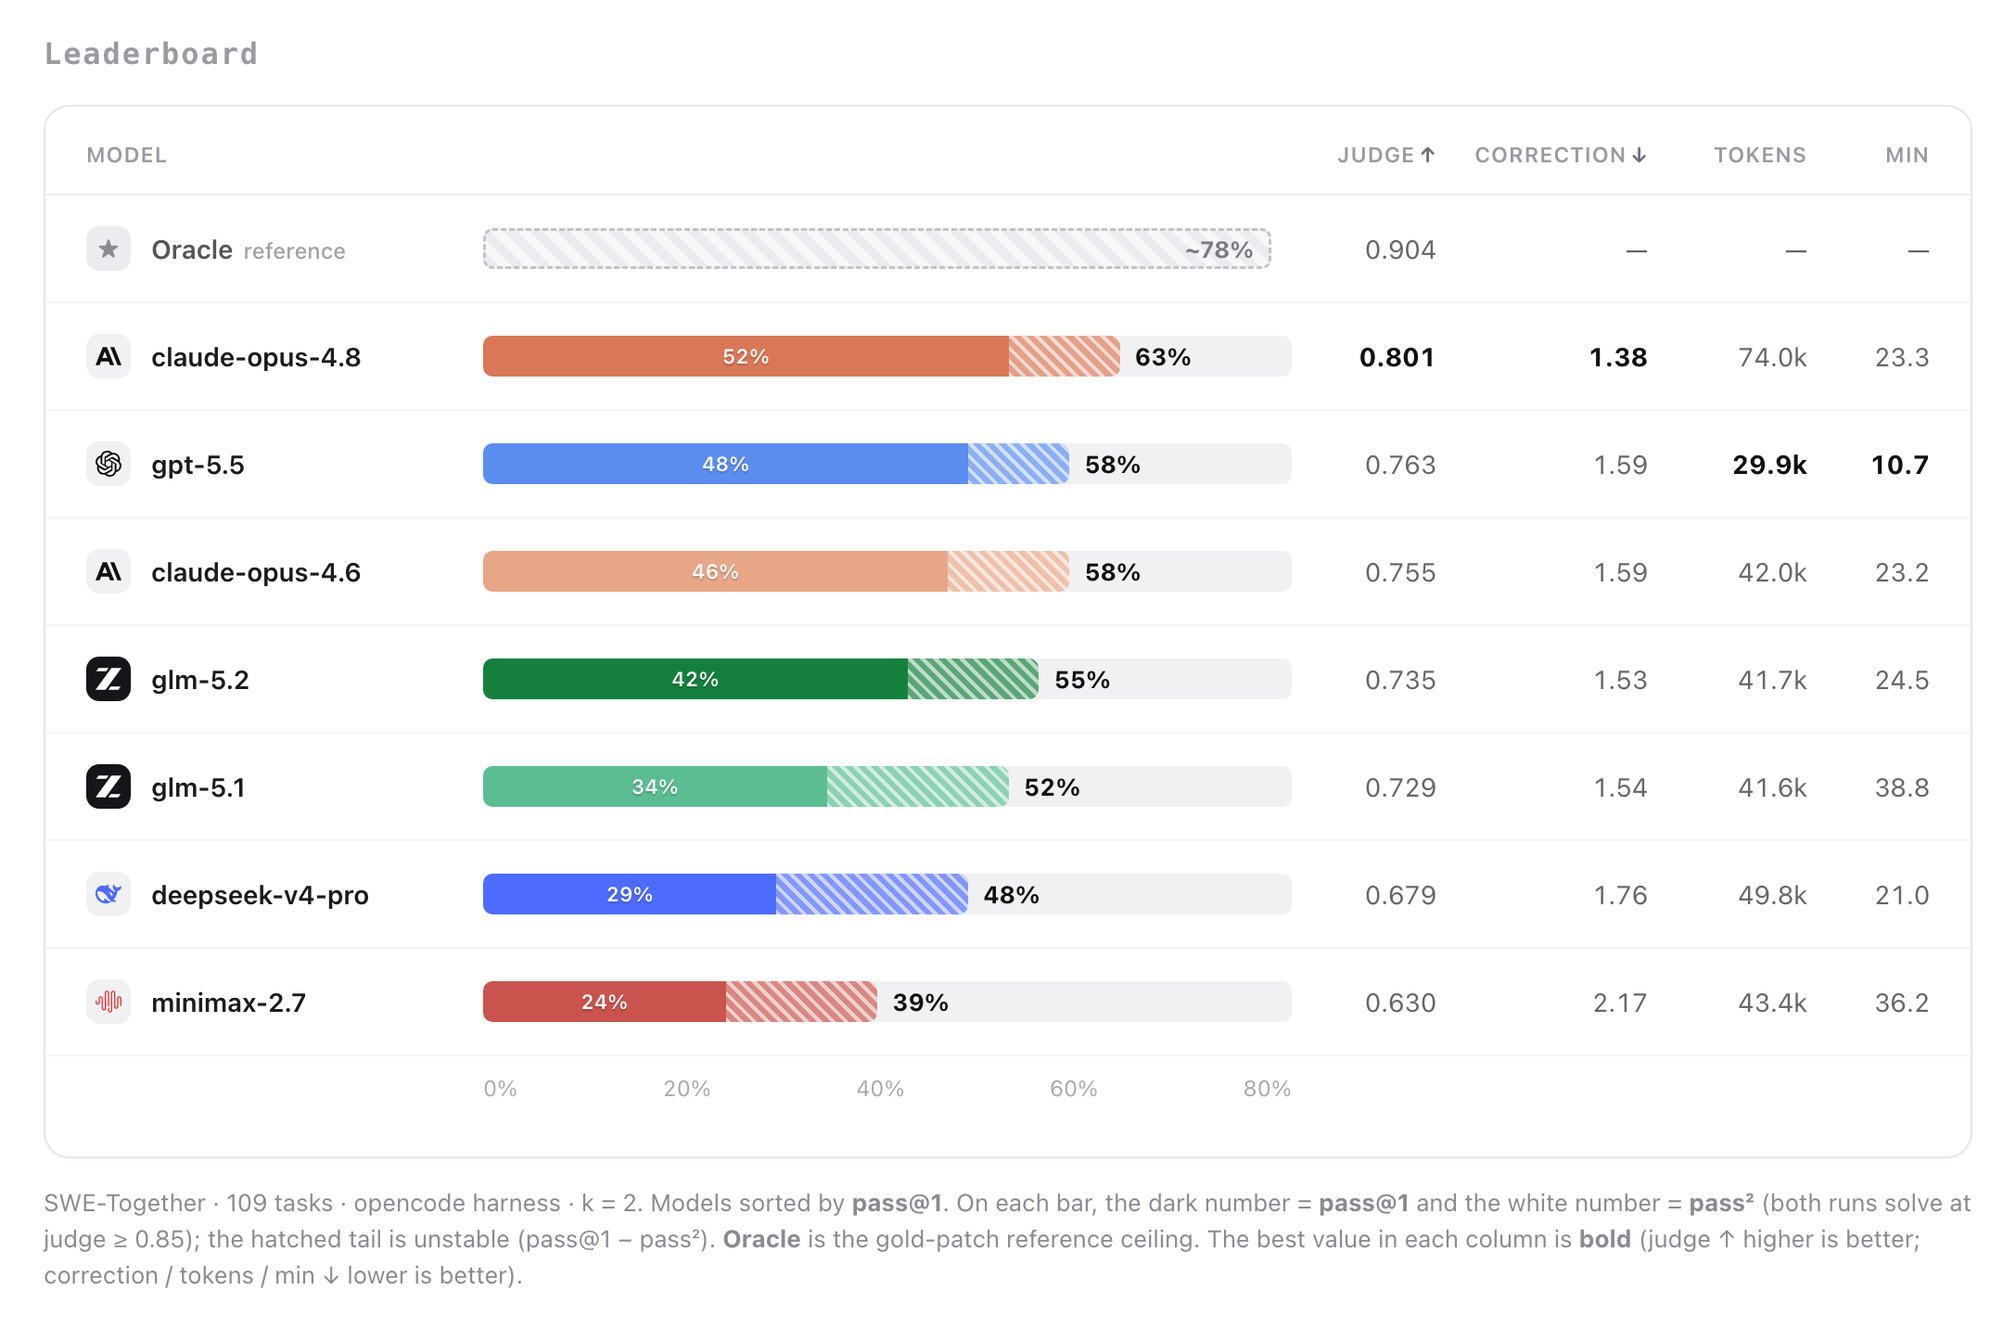
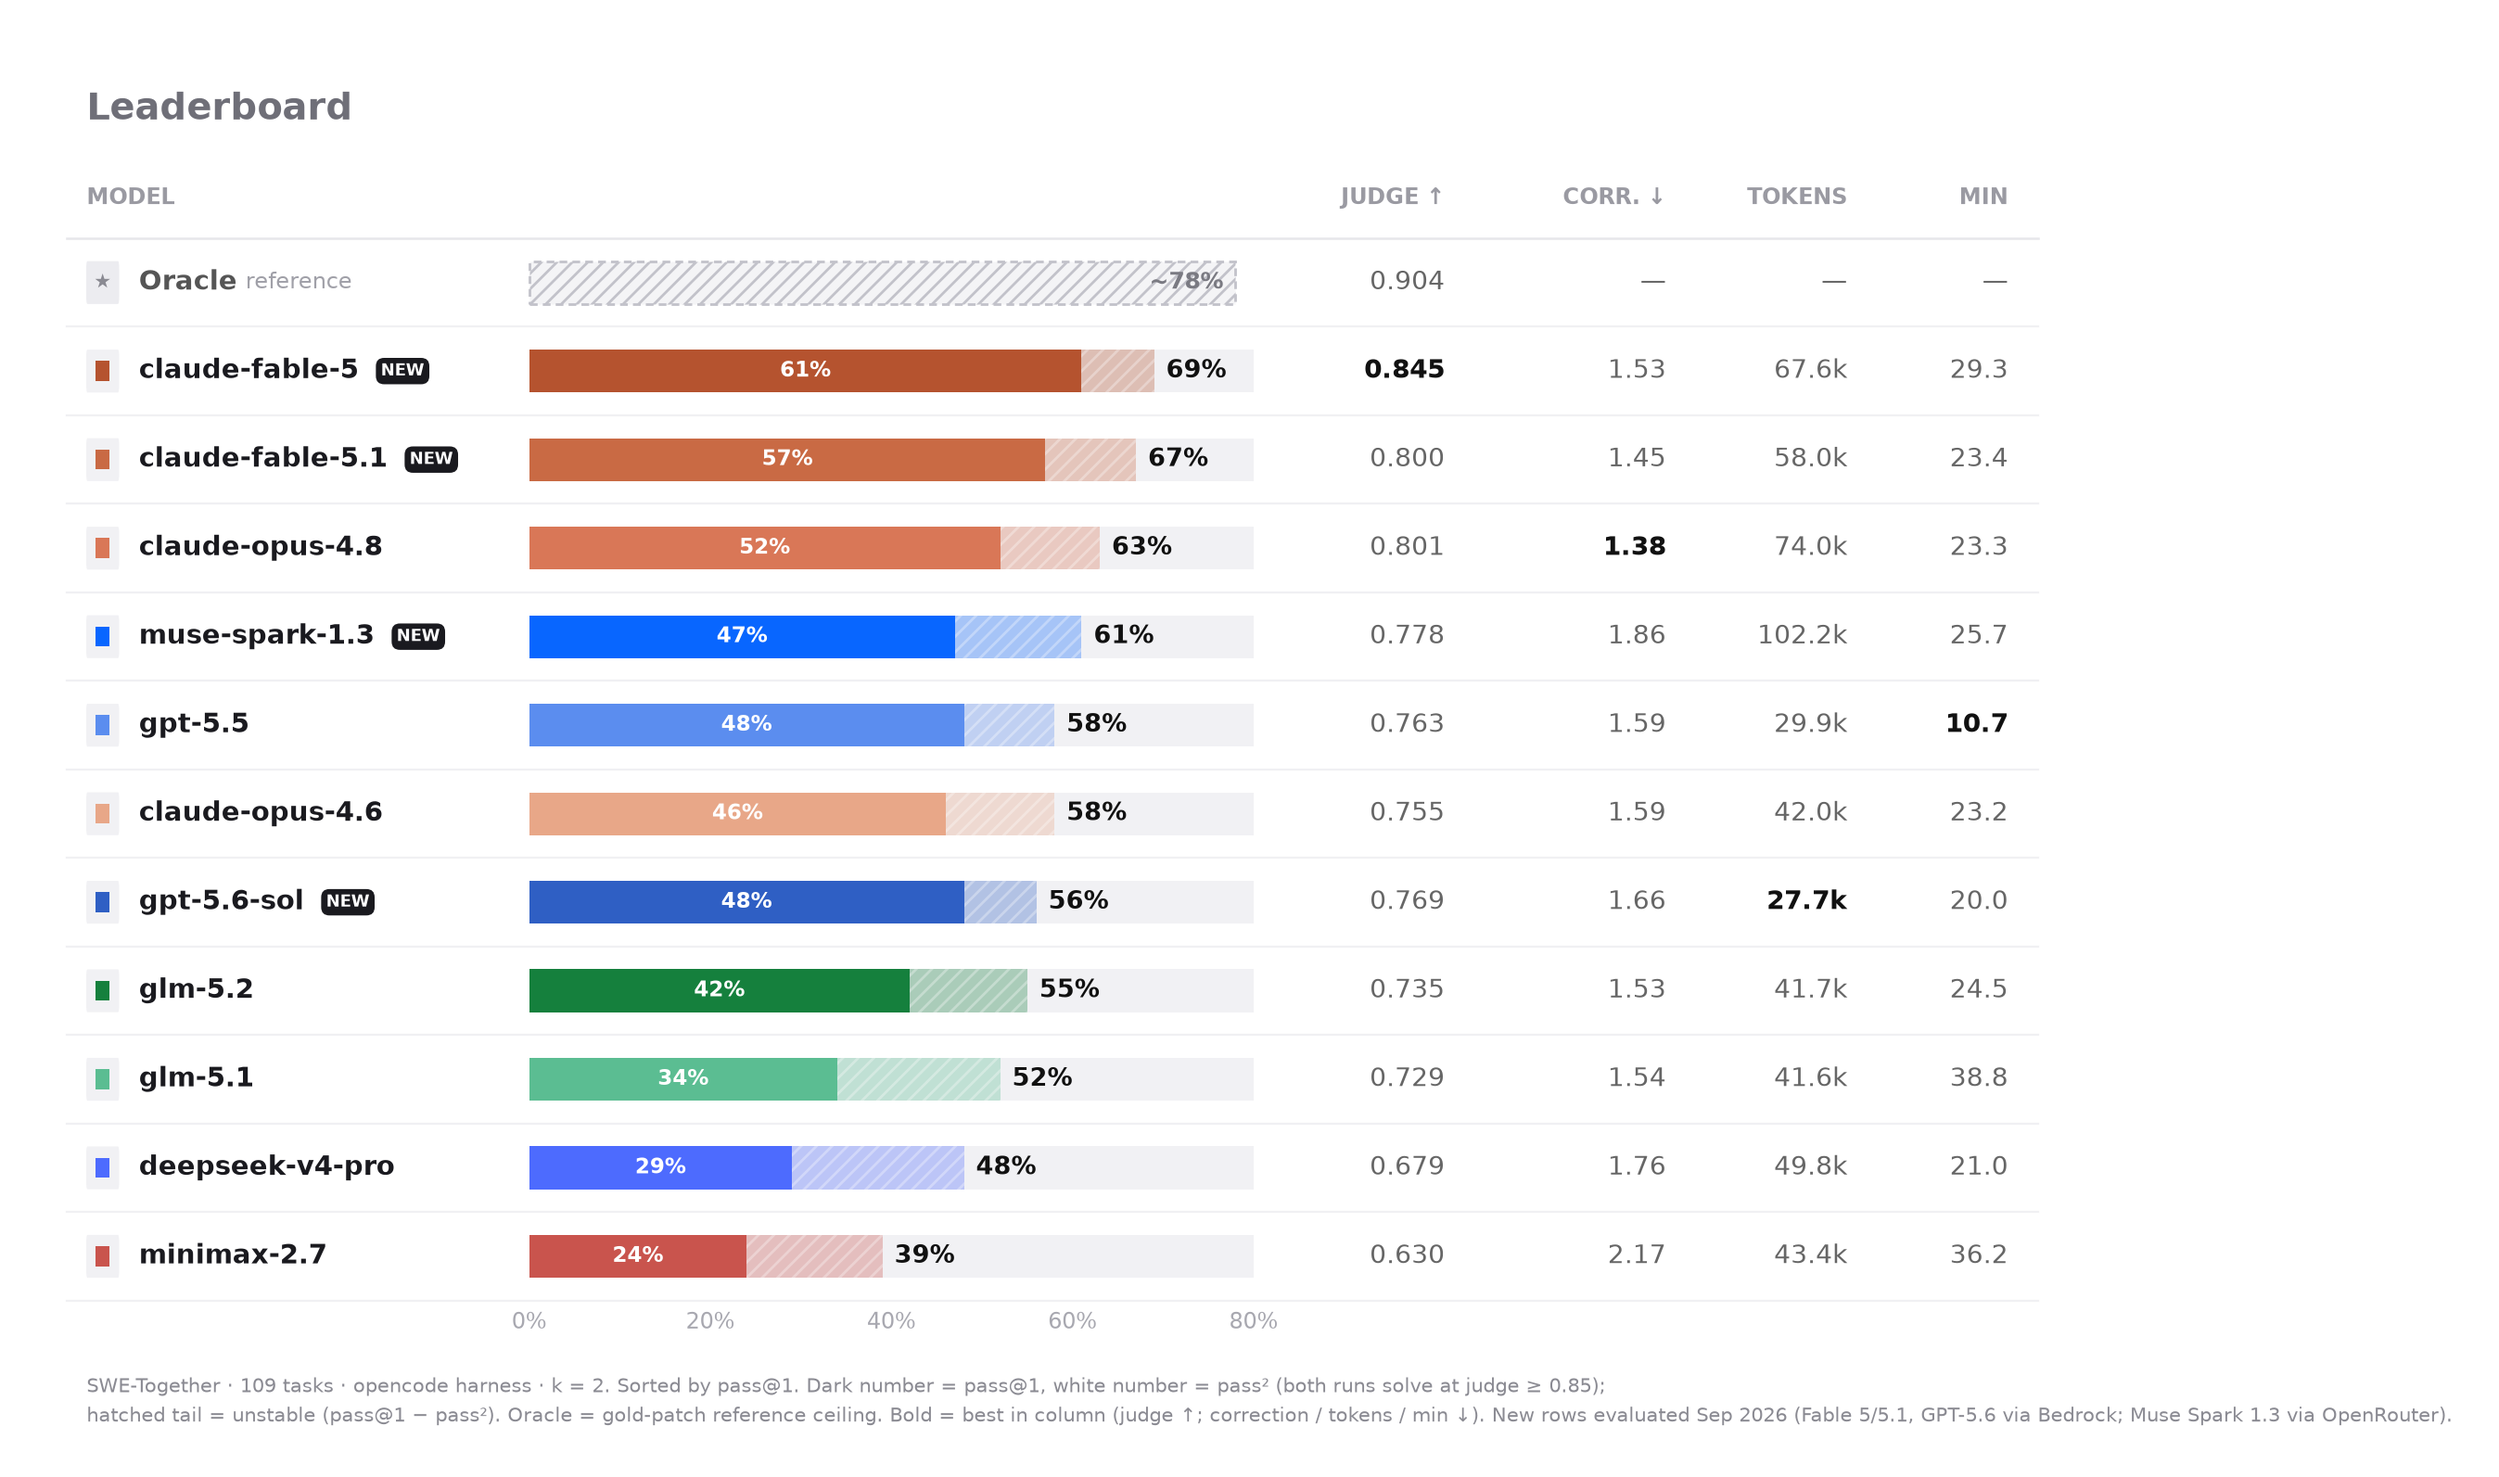
Add Fable 5 / 5.1 cohorts, refresh leaderboard asset, document Fable on Bedrock
Results from four new opencode cohorts (109 tasks x k=2), judged with Opus 4.6:

  claude-fable-5    pass@1 69.3%  SSR 64.2%  pass^2 61.5%  judge 0.845  (new #1)
  claude-fable-5.1  pass@1 66.5%  SSR 63.3%  pass^2 56.9%  judge 0.800
  muse-spark-1.3    pass@1 61.0%  SSR 56.0%  pass^2 46.8%  judge 0.778
  gpt-5.6-sol       pass@1 56.0%  SSR 52.3%  pass^2 47.7%  judge 0.769

- canonical_full109.json: `opencode_fable51` and `opencode_fable5` cohorts
  (agent on Bedrock, opencode 1.18.29, reasoning high), mirroring
  `opencode_gpt56`, so the runs are reproducible from the plan file.
- assets/leaderboard.png: regenerated with all 11 models, sorted by pass@1
  (rendered by figures/_gen_leaderboard_png.py in the website repo).
- docs/llm_backends.md: Fable data-retention opt-in procedure (per account and
  calling region, signed PUT for old CLIs, ~15 min propagation), the corrected
  token-accounting note (Bedrock's outputTokens include hidden reasoning), and
  operational notes from the Fable cohorts (0 API errors at 18 concurrent,
  benign tmpfs OOM flag, recurring judge max-turn tasks, cache-read pricing).

diff --git a/docs/llm_backends.md b/docs/llm_backends.md
@@ -124,6 +124,23 @@ to `provider_data_share` in the calling region (an account-admin action:
 No request field bypasses it. Once the account is opted in, the registry entries
 work unchanged.
 
+Notes from enabling it for the Fable cohorts:
+
+- The setting is per account **and per calling region**; `global.*` inference
+  profiles route across regions, but the check is made against the region of
+  the caller (`SWT_AWS_REGION`), so only that one region needs the opt-in.
+- It is a policy decision — Fable prompts and outputs are shared with the
+  provider for up to 30 days; other models on the account are unaffected — so
+  it belongs to the account owner, not to whoever holds the invocation role.
+- Older AWS CLIs (< ~2.35) lack `put-account-data-retention`; a SigV4-signed
+  `PUT https://bedrock.<region>.amazonaws.com/data-retention` with body
+  `{"mode":"provider_data_share"}` does the same (`awscurl` works too).
+  `GET` on the same path reads the current mode.
+- Propagation is not instant: for ~15 minutes after the flip a small fraction
+  of calls (2 of ~60 in the canary) still returned the old error. opencode does
+  not retry a 400, so run the 1-task smoke test until it completes with zero
+  such errors before launching a cohort.
+
 ## Reasoning effort on Bedrock
 
 The benchmark runs opencode with `--variant=<effort>`; the config patch the
@@ -144,10 +161,14 @@ in the run manifest. Cohorts without the field keep the canonical pin.
 
 ### Accounting caveats for GPT models on Bedrock
 
-- Bedrock returns GPT reasoning as encrypted `redactedContent`; opencode's
-  `step_finish.tokens.reasoning` is therefore `0` even when reasoning is on
-  (the `reasoning` events are present). Judge metrics are unaffected; the
-  per-trial `output_tokens` excludes reasoning for these trials.
+- Bedrock returns GPT reasoning as encrypted `redactedContent` and Claude
+  thinking as signed blocks; opencode's `step_finish.tokens.reasoning` is
+  therefore `0` for every Bedrock trial even when reasoning is on (the
+  `reasoning` events are present). Bedrock's `outputTokens` already includes
+  the hidden reasoning/thinking tokens (verified live: a one-character answer
+  bills 170–500 output tokens at effort high and ~5 at effort none), so the
+  per-trial `output_tokens` = output + reasoning stays comparable with
+  OpenRouter cohorts, where the two are reported separately.
 - opencode's `step_finish.cost` prices `tokens.input` in full and adds the cache
   read on top, but Bedrock's `inputTokens` for GPT models already *excludes*
   cached tokens (Anthropic-style accounting, verified live). Reported cost is
@@ -188,6 +209,29 @@ in the run manifest. Cohorts without the field keep the canonical pin.
   218 via OpenRouter). To re-judge failures, move each failed
   `judge_verdict.json` aside and re-run the judge launcher: existing verdicts
   are skipped, so only the missing ones are judged and the report is rebuilt.
+
+## Operational notes from the Fable cohorts (Fable 5.1 and Fable 5, 2×109 each)
+
+- **Anthropic models on Bedrock were error-free at the same concurrency.** Both
+  cohorts ran 218/218 trials at 18 concurrent (`--shards 12 --concurrent 3`)
+  with zero API errors of any kind and zero throttle retries, and prompt
+  caching worked for the agent (~98% cache-hit rate). The 18-trial ceiling was
+  set by GPT-5.6's throttling, not by Anthropic quota.
+- **A Slurm `OUT_OF_MEMORY` on a shard is not necessarily a lost shard.** The
+  container's `/tmp` is tmpfs and counts toward the job's memory cgroup; on
+  `mlx-lm-mambacache` the agent downloaded a 42 GB model checkpoint into it,
+  which tripped the 128 GB limit at job exit — after every trial in the shard
+  had finished and written its verifier reward. Check `trial_infra.json` and
+  `verifier/reward.txt` for the shard's trials before treating the flag as a
+  failure.
+- **Judge max-turn failures recur on the same tasks.** `cli-task-e5813e` hit
+  Claude Code's 50-turn cap for GPT-5.6, Fable 5.1 and Fable 5 alike; a second
+  pass recovered most verdicts (Fable 5: 2/2, Fable 5.1: 3/4, GPT-5.6: 4/5) and
+  the residual is scored 0.0 per the leaderboard rule.
+- **Cost differs between the two Fables mainly through the cache-read rate.**
+  At list price Fable 5 came to ≈$3.9k and Fable 5.1 ≈$1.8k for similar token
+  volumes: Fable 5's cache reads are billed at $1/M vs $0.25/M, and cache reads
+  are ~98% of input tokens on agentic trials.
 
 ## Verdict provenance
 
